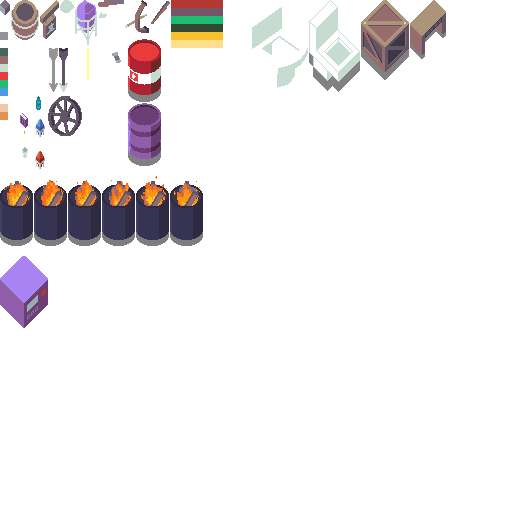
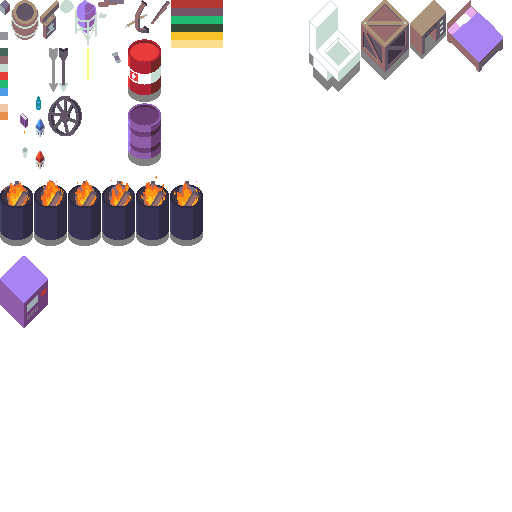
0.6.894

Changed region(s): [[0.8125, 0.0, 1.0, 0.1562], [0.4688, 0.0, 0.5625, 0.125], [0.5312, 0.0938, 0.5938, 0.1875]]

diff --git a/bleed-common/lib/src/item_type.dart b/bleed-common/lib/src/item_type.dart
@@ -86,6 +86,7 @@ class ItemType {
   static const GameObjects_Crate_Wooden         = Index_GameObjects + 22;
   static const GameObjects_Desk                 = Index_GameObjects + 23;
   static const GameObjects_Vending_Machine      = Index_GameObjects + 24;
+  static const GameObjects_Bed                  = Index_GameObjects + 25;
 
   static const Resource_Wood = Index_Resources + 5;
   static const Resource_Stone = Index_Resources + 6;
@@ -226,6 +227,7 @@ class ItemType {
       value == ItemType.GameObjects_Barrel            ||
       value == ItemType.GameObjects_Crate_Wooden      ||
       value == ItemType.GameObjects_Desk              ||
+      value == ItemType.GameObjects_Bed               ||
       value == ItemType.GameObjects_Tavern_Sign        ;
 
   static double getRadius(int value){
@@ -242,6 +244,7 @@ class ItemType {
     value == ItemType.GameObjects_Crate_Wooden      ||
     value == ItemType.GameObjects_Desk              ||
     value == ItemType.GameObjects_Vending_Machine   ||
+    value == ItemType.GameObjects_Bed               ||
     value == ItemType.GameObjects_Tavern_Sign        ;
 
   static bool applyGravity(int value) =>
@@ -629,6 +632,7 @@ class ItemType {
      GameObjects_Toilet: "Toilet",
      GameObjects_Crate_Wooden: "Wooden Crate",
      GameObjects_Desk: "Wooden Desk",
+     GameObjects_Bed: "Bed",
      GameObjects_Node_Collider: "Node Collider",
      GameObjects_Vending_Machine: "Vending Machine",
   }[value] ?? "item-type-unknown($value)";
@@ -745,6 +749,7 @@ class ItemType {
      GameObjects_Crate_Wooden,
      GameObjects_Desk,
      GameObjects_Vending_Machine,
+     GameObjects_Bed,
   ];
 
   static bool isTypeBarrel(int type)=> const [

diff --git a/bleed-server/lib/common/src/item_type.dart b/bleed-server/lib/common/src/item_type.dart
@@ -86,6 +86,7 @@ class ItemType {
   static const GameObjects_Crate_Wooden         = Index_GameObjects + 22;
   static const GameObjects_Desk                 = Index_GameObjects + 23;
   static const GameObjects_Vending_Machine      = Index_GameObjects + 24;
+  static const GameObjects_Bed                  = Index_GameObjects + 25;
 
   static const Resource_Wood = Index_Resources + 5;
   static const Resource_Stone = Index_Resources + 6;
@@ -226,6 +227,7 @@ class ItemType {
       value == ItemType.GameObjects_Barrel            ||
       value == ItemType.GameObjects_Crate_Wooden      ||
       value == ItemType.GameObjects_Desk              ||
+      value == ItemType.GameObjects_Bed               ||
       value == ItemType.GameObjects_Tavern_Sign        ;
 
   static double getRadius(int value){
@@ -242,6 +244,7 @@ class ItemType {
     value == ItemType.GameObjects_Crate_Wooden      ||
     value == ItemType.GameObjects_Desk              ||
     value == ItemType.GameObjects_Vending_Machine   ||
+    value == ItemType.GameObjects_Bed               ||
     value == ItemType.GameObjects_Tavern_Sign        ;
 
   static bool applyGravity(int value) =>
@@ -629,6 +632,7 @@ class ItemType {
      GameObjects_Toilet: "Toilet",
      GameObjects_Crate_Wooden: "Wooden Crate",
      GameObjects_Desk: "Wooden Desk",
+     GameObjects_Bed: "Bed",
      GameObjects_Node_Collider: "Node Collider",
      GameObjects_Vending_Machine: "Vending Machine",
   }[value] ?? "item-type-unknown($value)";
@@ -745,6 +749,7 @@ class ItemType {
      GameObjects_Crate_Wooden,
      GameObjects_Desk,
      GameObjects_Vending_Machine,
+     GameObjects_Bed,
   ];
 
   static bool isTypeBarrel(int type)=> const [

diff --git a/gamestream_flutter/lib/game_atlas.dart b/gamestream_flutter/lib/game_atlas.dart
@@ -22,6 +22,7 @@ class AtlasItems {
         ItemType.GameObjects_Crate_Wooden: 361,
         ItemType.GameObjects_Desk: 410,
         ItemType.GameObjects_Vending_Machine: 0,
+        ItemType.GameObjects_Bed: 447,
         ItemType.Trinket_Ring_of_Health: 256,
         ItemType.Trinket_Ring_of_Damage: 288,
         ItemType.Empty: 224,
@@ -104,6 +105,7 @@ class AtlasItems {
         ItemType.GameObjects_Crate_Wooden: 0,
         ItemType.GameObjects_Desk: 0,
         ItemType.GameObjects_Vending_Machine: 256,
+        ItemType.GameObjects_Bed: 0,
         ItemType.Trinket_Ring_of_Health: 32,
         ItemType.Trinket_Ring_of_Damage: 32,
         ItemType.Weapon_Ranged_Shotgun: 32,
@@ -179,6 +181,7 @@ class AtlasItems {
         ItemType.GameObjects_Crate_Wooden: 48,
         ItemType.GameObjects_Desk: 36,
         ItemType.GameObjects_Vending_Machine: 48,
+        ItemType.GameObjects_Bed: 56,
         ItemType.Weapon_Rifle_Sniper: 48,
         ItemType.Weapon_Flamethrower: 64,
         ItemType.Weapon_Special_Bazooka: 48,
@@ -202,6 +205,7 @@ class AtlasItems {
         ItemType.GameObjects_Crystal_Small_Red: 18,
         ItemType.GameObjects_Toilet: 92,
         ItemType.GameObjects_Vending_Machine: 72,
+        ItemType.GameObjects_Bed: 72,
         ItemType.Weapon_Rifle_Sniper: 16,
         ItemType.Weapon_Special_Bazooka: 16,
         ItemType.Weapon_Special_Minigun: 12,

diff --git a/bleed-common/lib/src/version.dart b/bleed-common/lib/src/version.dart
@@ -1,4 +1,4 @@
-const version = '0.6.893';
+const version = '0.6.895';
 
 
 

diff --git a/bleed-server/lib/common/src/version.dart b/bleed-server/lib/common/src/version.dart
@@ -1,4 +1,4 @@
-const version = '0.6.893';
+const version = '0.6.895';
 
 
 

diff --git a/gamestream_flutter/README.md b/gamestream_flutter/README.md
@@ -6,9 +6,9 @@ firebase deploy
 navigate to next method: ctrl + shift + up / down arrows
 ctrl + w:   minimal mode
 
-
 17.01.2023
 [x] feature flaming barrels emit smoke particle
+[x] new gameobject bed
 [x] new gameobject desk
 [x] implement vending machine as gameobject instead of node
 
